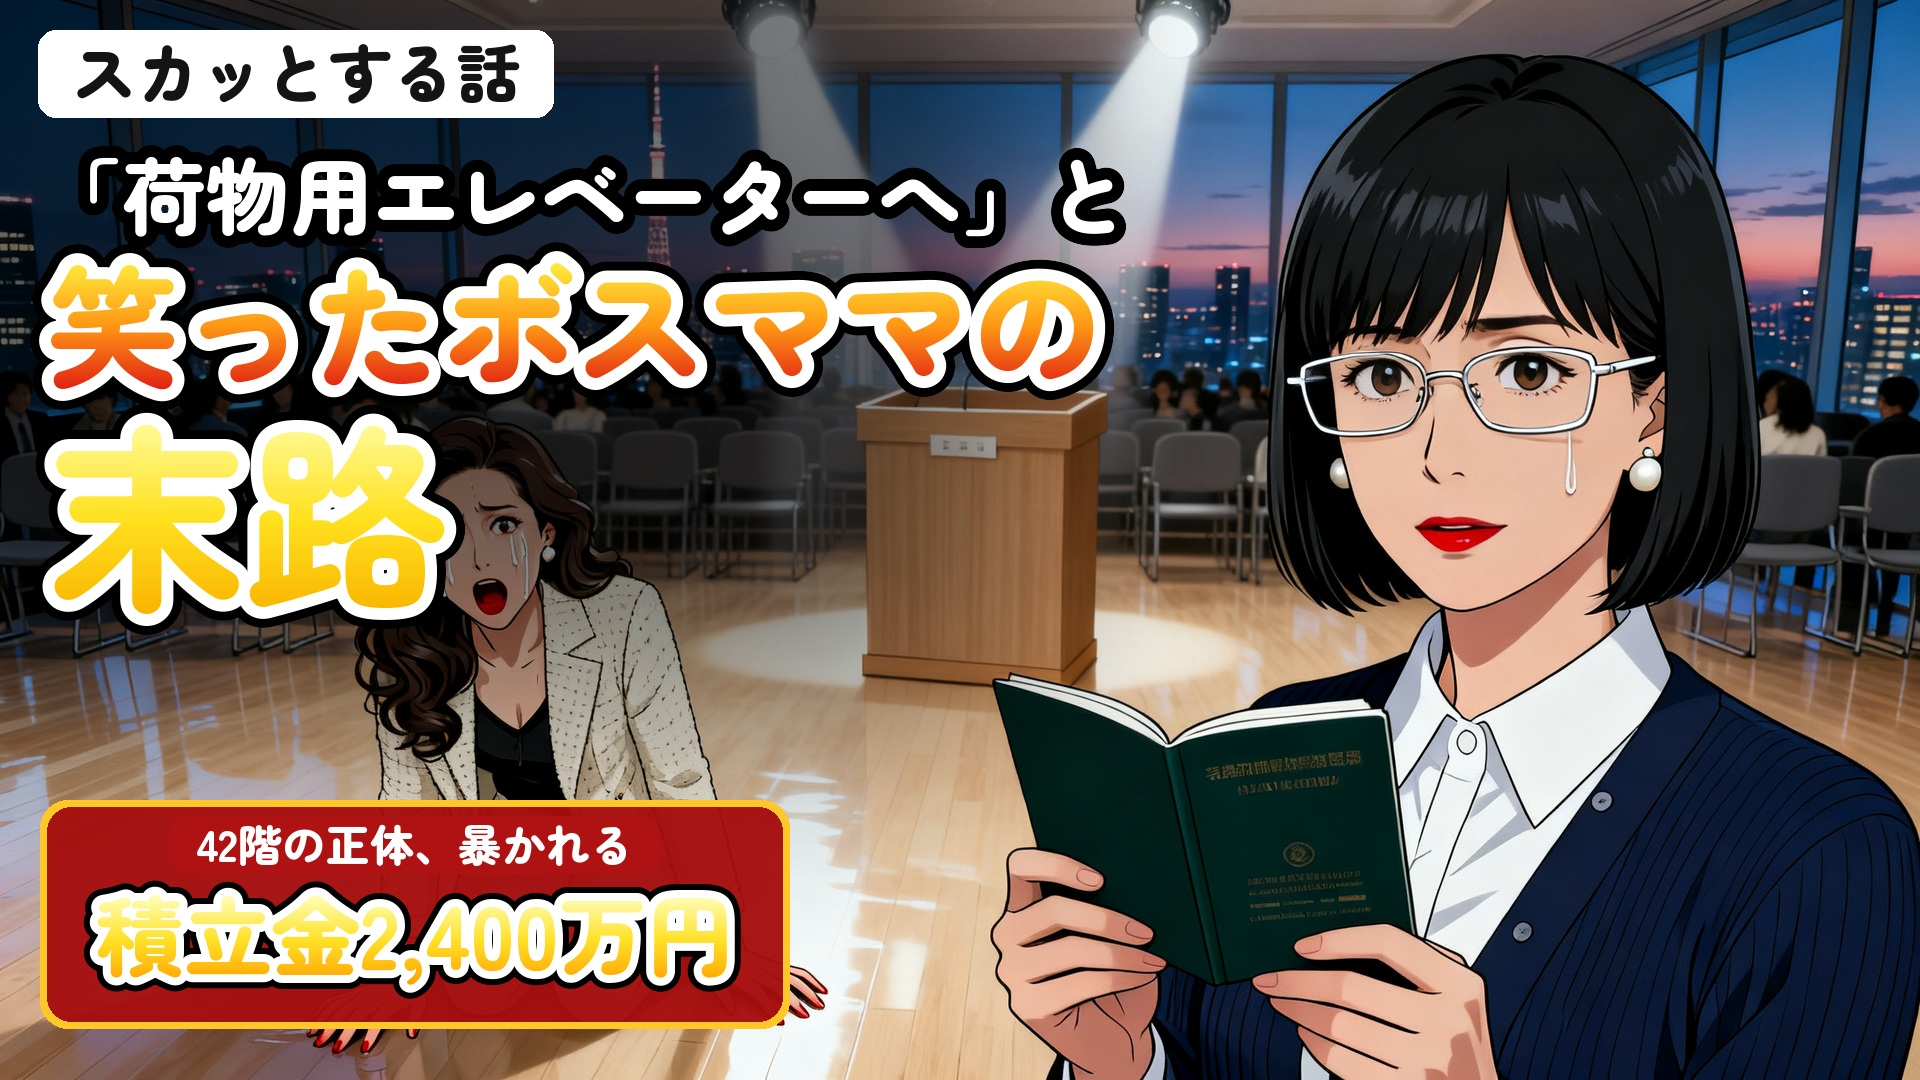
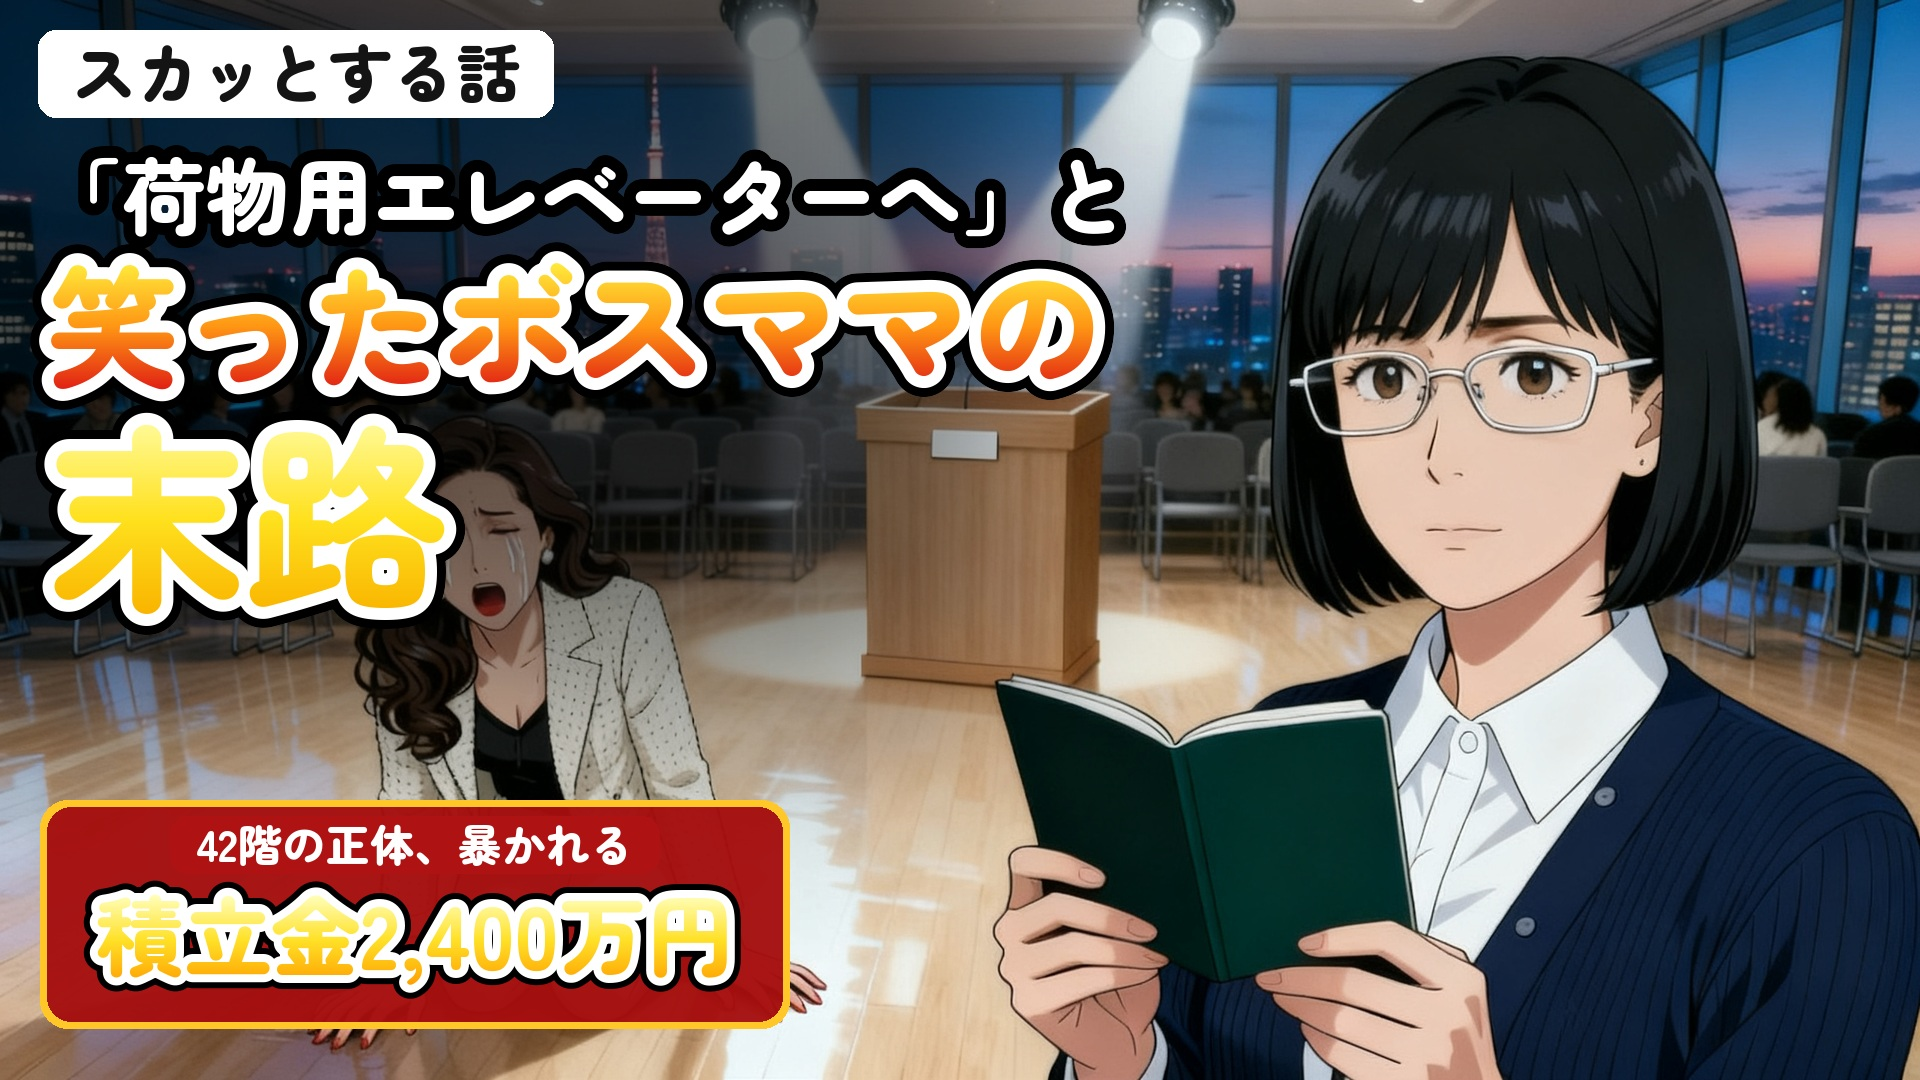
タワマン 썸네일 지침판 A/B/C 완성(2560x1440 만화풍 + 倉庫番 형식 글자, 360px 확인본)
Claude-Session: https://claude.ai/code/session_01NcCUyptYk83EHSkd2nddfa

diff --git a/scripts/make_thumbnails_tower_hd.py b/scripts/make_thumbnails_tower_hd.py
@@ -5,7 +5,7 @@
   A 【スカッと】 「荷物用エレベーターへ」と笑ったボスママの末路   — 통장을 든 유미 / 무릎 꿇은 레이카
   B 【泣ける】   「上の子専用」と締め出された娘、母の反撃       — 리코를 안은 유미 / 놀이방 유리문
   C 【スカッと】 「私は42階のオーナーよ！」本当の持ち主は…      — 오다기리 / 애원하는 레이카
-사용법: python3 scripts/make_thumbnails_tower_hd.py [A번호 B번호 C번호]   (기본 1 1 1)
+사용법: python3 scripts/make_thumbnails_tower_hd.py [A번호 B번호 C번호]   (확정 2026-10-17: fix 2 1 — A는 유미 귀걸이·립스틱 제거 편집본)
 """
 import os
 import sys
